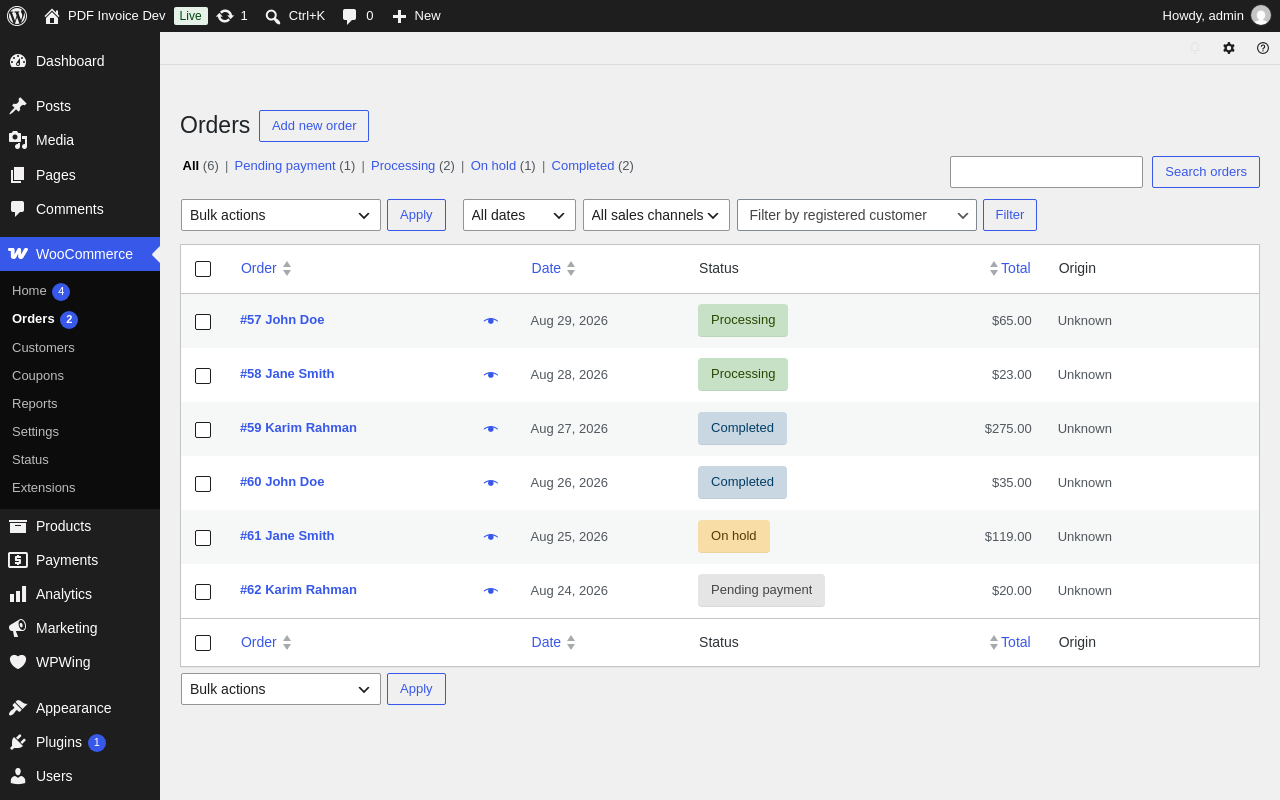
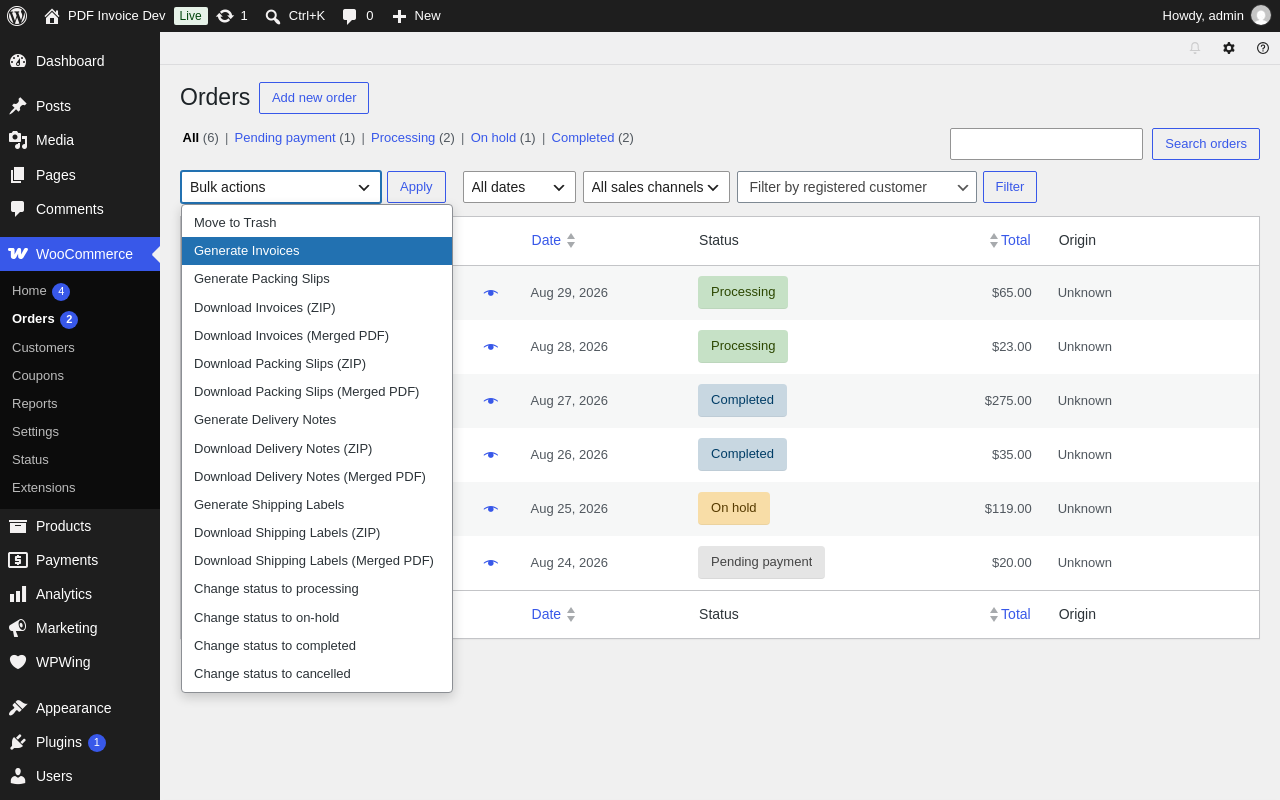
assets(screenshots): show open bulk actions dropdown in screenshot-8 and sync caption

diff --git a/tools/screenshots.js b/tools/screenshots.js
@@ -147,11 +147,61 @@ const SHOTS = [
 	},
 	{
 		file: 'screenshot-8.png',
-		caption: 'WooCommerce orders list with quick PDF action buttons',
+		caption: 'WooCommerce orders list with bulk PDF actions dropdown',
 		capture: async ( page ) => {
 			await page.goto( `${ BASE_URL }/wp-admin/edit.php?post_type=shop_order` );
 			await page.locator( '.wp-list-table' ).waitFor( { state: 'visible' } );
 			await hideAdminNotices( page );
+
+			const checkboxes = page.locator( 'input[name="post[]"]' );
+			if ( ( await checkboxes.count() ) >= 2 ) {
+				await checkboxes.nth( 0 ).check();
+				await checkboxes.nth( 1 ).check();
+			}
+
+			await page.evaluate( () => {
+				const select = document.querySelector( '#bulk-action-selector-top' );
+				if ( ! select ) return;
+				const rect = select.getBoundingClientRect();
+
+				select.style.borderColor = '#2271b1';
+				select.style.boxShadow = '0 0 0 1px #2271b1';
+				select.style.outline = '2px solid transparent';
+
+				const menu = document.createElement( 'div' );
+				menu.id = 'wpwing-fake-dropdown';
+				menu.style.position = 'absolute';
+				menu.style.left = `${ rect.left + window.scrollX }px`;
+				menu.style.top = `${ rect.bottom + window.scrollY + 1 }px`;
+				menu.style.width = '270px';
+				menu.style.background = '#ffffff';
+				menu.style.border = '1px solid #8c8f94';
+				menu.style.borderRadius = '4px';
+				menu.style.boxShadow = '0 4px 12px rgba(0,0,0,0.18)';
+				menu.style.zIndex = '999999';
+				menu.style.padding = '4px 0';
+				menu.style.fontFamily =
+					'-apple-system, BlinkMacSystemFont, "Segoe UI", Roboto, Oxygen-Sans, Ubuntu, Cantarell, "Helvetica Neue", sans-serif';
+				menu.style.fontSize = '13px';
+				menu.style.lineHeight = '1.4';
+
+				Array.from( select.options ).forEach( ( opt, idx ) => {
+					if ( idx === 0 ) return;
+					const item = document.createElement( 'div' );
+					item.textContent = opt.textContent;
+					item.style.padding = '5px 12px';
+					item.style.cursor = 'pointer';
+					item.style.color = '#2c3338';
+
+					if ( opt.value === 'wpwing_generate_invoices' ) {
+						item.style.background = '#2271b1';
+						item.style.color = '#ffffff';
+					}
+					menu.appendChild( item );
+				} );
+				document.body.appendChild( menu );
+			} );
+
 			await page.screenshot( { path: shotPath( 'screenshot-8.png' ) } );
 		},
 	},
